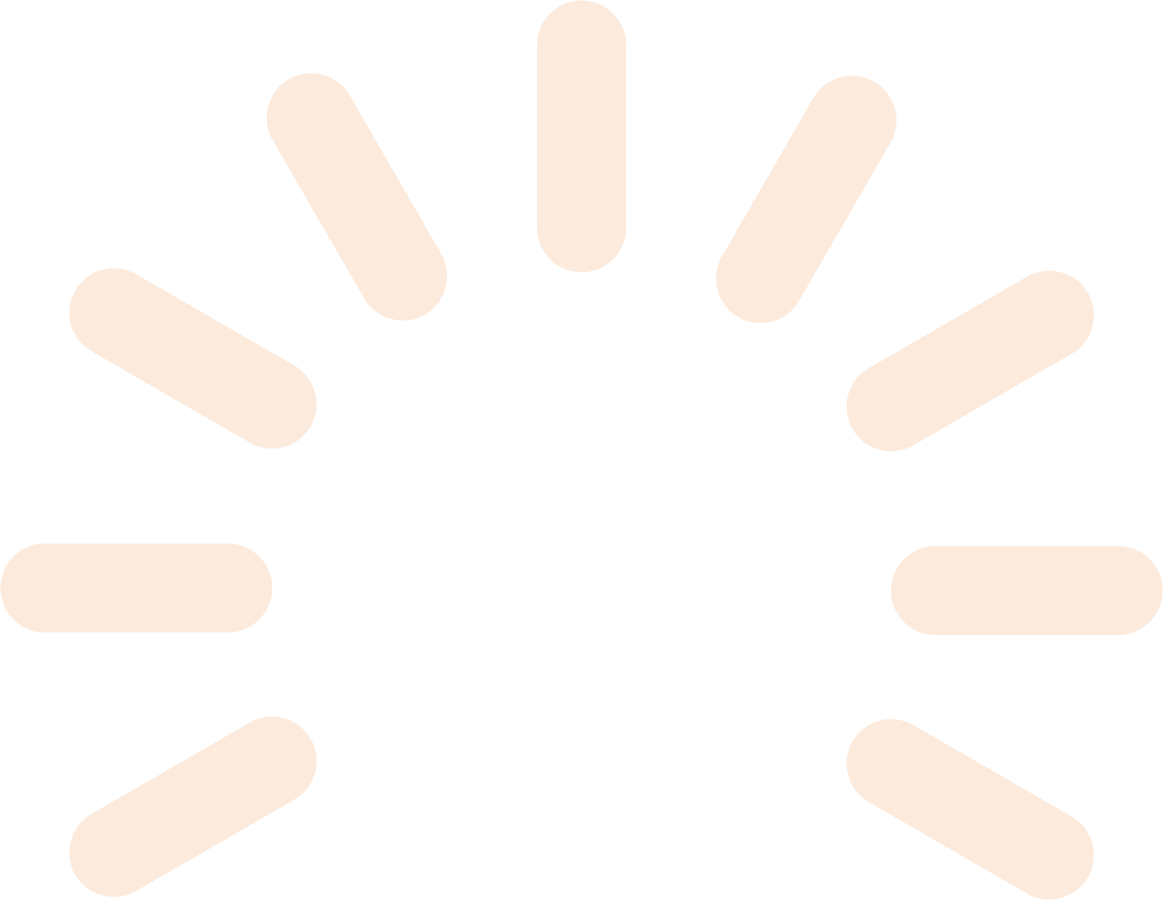
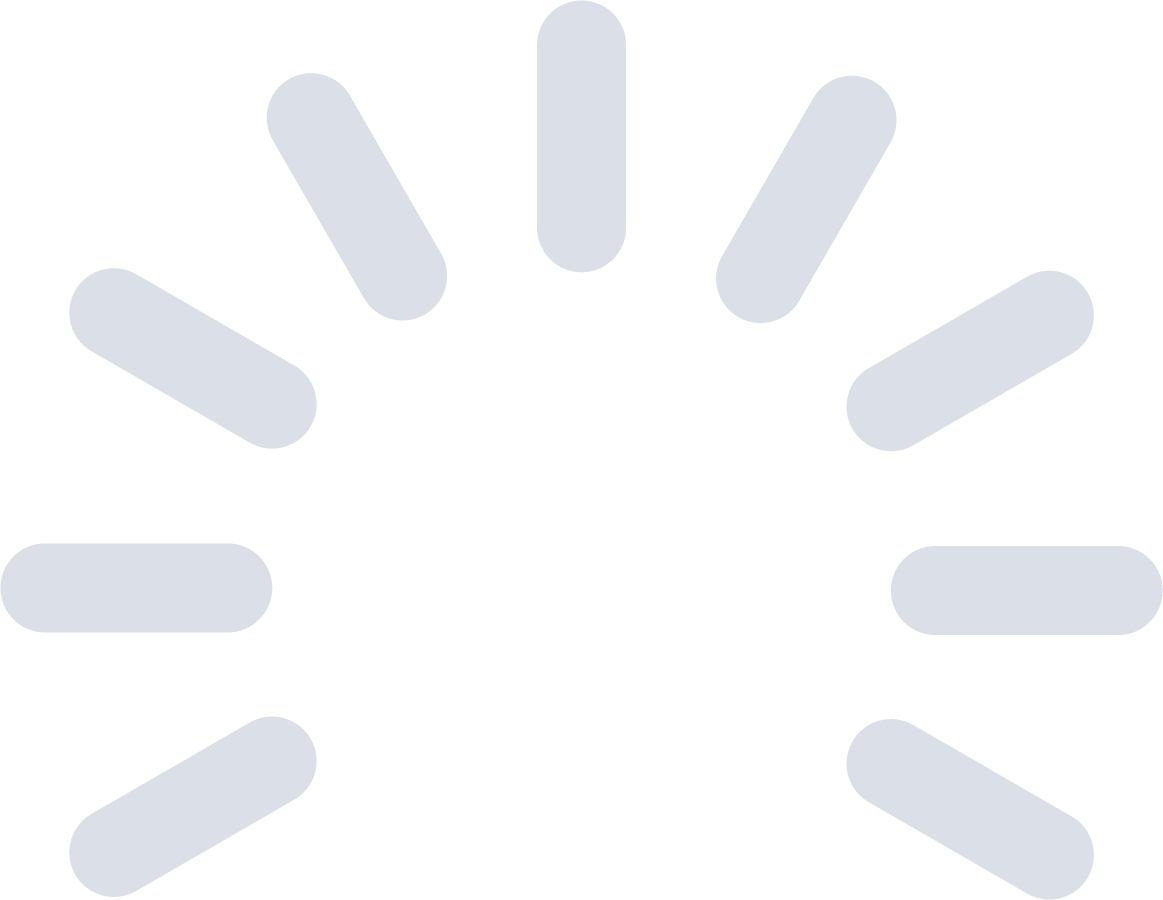
Update Temp Theme Color

diff --git a/app/global.scss b/app/global.scss
@@ -9,7 +9,7 @@ $theme-colors: (
   // DC3545
   "warning": #ffc107,
   // FFC107
-  "info": #17a2b8,
+  "info": #113768,
   //17A2B8
   "light": #f8f9fa,
   //F8F9FA
